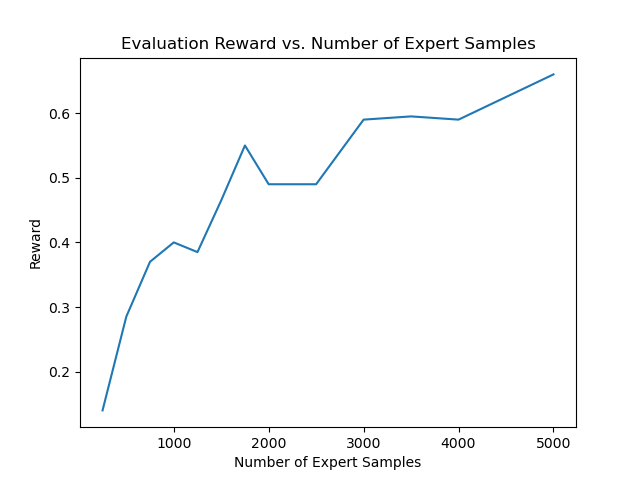
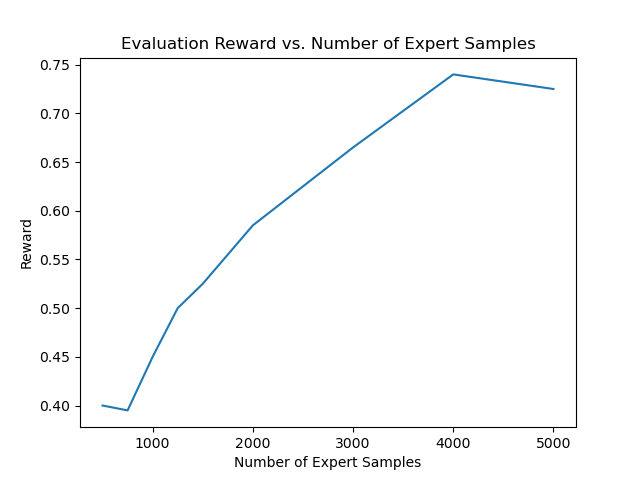
Added AL for full maze randomization

diff --git a/algos/active_bc.py b/algos/active_bc.py
@@ -10,7 +10,7 @@ from goal_setters import random_goal
 from mazes import *
 import os
 import yaml
-from helpers import Net
+from helpers import Net, ConvNet
 from maze_env import Trajectory
 
 
@@ -51,10 +51,175 @@ def heuristic(m1, m2):
 
 
 def active_bc(env=None, budget=100, config=None):
+    r = config["base"]["randomize"]
+
+    if r == "g":
+        goal_randomized_bc_al(env, budget, config)
+    elif r == "m":
+        maze_randomized_bc_al(env, budget, config)
+    else:
+        return
+
+
+def maze_randomized_bc_al(env, budget, config):
     mazes = []
+    max_heuristics = []
+    trajectories = []
+
+    B = 100
+
+    r = config["base"]["randomize"]
+
+    for i in range(B):
+        mazes.append(np.copy(generate_maze(env.board_size)))
+        trajectories.append(
+            generateExpertTrajectory(env, r=config["base"]["randomize"], maze=mazes[i])
+        )
+
+    # Generate the initial dataset
+    state_action_tuples = [traj.transitions() for traj in trajectories]
+
+    states = []
+    actions = []
+
+    for traj in state_action_tuples:
+        for state, action, _ in traj:
+            states.append(state)
+            actions.append(action)
+
+    np_states = np.array(states)
+    np_actions = np.array(actions)
+
+    idx, net, failed_configs = BehaviorCloning(
+        train_dataset=(np_states, np_actions),
+        test_dataset=None,
+        env=env,
+        config=config,
+        net=None,
+        idx=0,
+    )
+
+    while len(trajectories) <= budget:
+        print(f"Training on {len(trajectories)} expert samples")
+
+        if len(failed_configs) != 0:
+            heuristics = np.zeros(len(failed_configs))
+            max_heuristic = 0
+            max_heuristic_idx = 0
+            for t in range(len(failed_configs)):
+                cur_maze_heuristics = np.zeros(len(mazes))
+                maze_count = 0
+                for maze in mazes:
+                    cur_maze_heuristics[maze_count] = heuristic(maze, failed_configs[t])
+                    maze_count += 1
+                min_heuristic = np.min(cur_maze_heuristics)
+
+                heuristics[t] = min_heuristic
+
+            max_heuristic = np.max(heuristics)
+
+            print(f"Max heuristic: {max_heuristic}")
+            max_heuristics.append(max_heuristic)
+
+            num_left = min(B, budget - len(trajectories))
+
+            num_avail = len(failed_configs)
+
+            if num_avail >= num_left:
+                # Find the num_left best heuristics
+                best_heuristics = np.argsort(heuristics)[-num_left:]
+                # Append the corresponding configs to mazes
+                for h in best_heuristics:
+                    mazes.append(np.copy(failed_configs[h]))
+                    trajectories.append(
+                        generateExpertTrajectory(
+                            env, r=config["base"]["randomize"], maze=failed_configs[h]
+                        )
+                    )
+                    for state, action, _ in trajectories[-1].transitions():
+                        states.append(state)
+                        actions.append(action)
+            else:
+                # Append all of the configs to mazes
+                for h in range(num_avail):
+                    mazes.append(np.copy(failed_configs[h]))
+                    trajectories.append(
+                        generateExpertTrajectory(
+                            env, r=config["base"]["randomize"], maze=failed_configs[h]
+                        )
+                    )
+                    for state, action, _ in trajectories[-1].transitions():
+                        states.append(state)
+                        actions.append(action)
+                # Append random mazes to mazes
+                for h in range(num_left - num_avail):
+                    mazes.append(np.copy(generate_maze(env.board_size)))
+                    trajectories.append(
+                        generateExpertTrajectory(
+                            env, r=config["base"]["randomize"], maze=mazes[-1]
+                        )
+                    )
+                    for state, action, _ in trajectories[-1].transitions():
+                        states.append(state)
+                        actions.append(action)
+        else:
+            # Append random mazes to mazes
+            num_left = min(B, budget - len(trajectories))
+            for h in range(num_left):
+                mazes.append(np.copy(generate_maze(env.board_size)))
+                trajectories.append(
+                    generateExpertTrajectory(
+                        env, r=config["base"]["randomize"], maze=mazes[-1]
+                    )
+                )
+                for state, action, _ in trajectories[-1].transitions():
+                    states.append(state)
+                    actions.append(action)
+
+        np_states = np.array(states)
+        np_actions = np.array(actions)
+
+        idx, net, failed_configs = BehaviorCloning(
+            train_dataset=(np_states, np_actions),
+            test_dataset=None,
+            env=env,
+            config=config,
+            net=None,
+            idx=(idx + 1),
+        )
+
+    # Save the final model
+
+    # If logs/bc_al/al_model_{budget} doesn't exist, create it
+    if not os.path.exists(
+        f"logs/{config['base']['save_dir']}/bc_al_model_samples_{budget}"
+    ):
+        os.makedirs(f"logs/{config['base']['save_dir']}/bc_al_model_samples_{budget}")
+
+    torch.save(
+        net.state_dict(),
+        f"logs/{config['base']['save_dir']}/bc_al_model_samples_{budget}/bc_al_model_samples_{budget}.pt",
+    )
+
+    # Plot the max heuristics
+    plt.plot(max_heuristics)
+    plt.xlabel("Iteration")
+    plt.ylabel("Max Heuristic")
+    plt.title("Max Heuristic vs. Iteration")
+    plt.savefig(
+        f"logs/{config['base']['save_dir']}/bc_al_model_samples_{budget}/max_heuristics.png"
+    )
+
+
+def goal_randomized_bc_al(env, budget, config):
+    mazes = []
+
+    r = config["base"]["randomize"]
 
     env.set_goal(random_goal(env))
     init_maze = np.copy(env.grid_string.T)
+
+    max_heuristics = []
 
     mazes.append(init_maze)
 
@@ -156,6 +321,7 @@ def BehaviorCloning(
     env=None,
     config=yaml.load(open("configs/bc/bc_exp_cfg.yaml", "r"), Loader=yaml.FullLoader),
     net=None,
+    budget=None,
     idx=0,
 ):
     r = config["base"]["randomize"]
@@ -165,13 +331,26 @@ def BehaviorCloning(
     save_weights = config["bc"]["save_weights"]
     eval_freq = config["bc"]["eval_freq"]
     num_eval_runs = config["bc"]["num_eval_runs"]
+    network = config["base"]["network"]
 
     state_size = train_dataset[0][0].shape[0]
 
+    if torch.cuda.is_available():
+        device = torch.device("cuda:0")
+        print("Running on GPU")
+    else:
+        device = torch.device("cpu")
+        print("Running on CPU")
+
     eps = 1e-8
 
-    if net is None:
-        net = Net(state_size)
+    if network == "fc":
+        if net is None:
+            net = Net(state_size)
+    elif network == "cnn":
+        if net is None:
+            net = ConvNet(config["base"]["size"])
+            net.to(device)
 
     # Turn the train dataset from an Nx|S|x4 array into a torch dataset
     train_dataset = torch.utils.data.TensorDataset(
@@ -205,11 +384,6 @@ def BehaviorCloning(
         train_dataset, batch_size=batch_size, shuffle=True
     )
 
-    if test_dataset is not None:
-        test_loader = torch.utils.data.DataLoader(
-            test_dataset, batch_size=batch_size, shuffle=True
-        )
-
     # Train the network
 
     mod = eval_freq if eval_freq is not None else epochs // 10
@@ -222,6 +396,10 @@ def BehaviorCloning(
         epoch_train_losses = []
         epoch_train_accs = []
         for i, (state, action) in enumerate(train_loader):
+            if torch.cuda.is_available():
+                state = state.to(device)
+                action = action.to(device)
+
             optimizer.zero_grad()
             output = net(state)
 
@@ -254,8 +432,6 @@ def BehaviorCloning(
             print("Loss is 0, stopping training")
             break
 
-    save_string = f"bc_{env.grid_string.shape[0]}x{env.grid_string.shape[0]}_r_{r}_samples_{train_dataset.__len__()}_batch_{batch_size}_epochs_{epochs}"
-
     failed_configs = []
 
     obs = env.reset()
@@ -267,15 +443,18 @@ def BehaviorCloning(
         goal_idx = 1
         env.set_goal(goals[0])
         obs = env.reset()
+        num_trials = len(goals) - 1
     elif r == "m":
         obs = env.reset(grid_string=generate_maze(env.board_size))
+        num_trials = 100 * 5
     else:
         obs = env.reset()
 
-    for i in range(len(goals) - 1):
+    for i in range(num_trials):
         reward_sum = 0
         while True:
-            action = net(torch.tensor(obs).float()).argmax().item()
+            obs_tensor = torch.tensor(obs).float().to(device).unsqueeze(0)
+            action = net(obs_tensor).argmax().item()
             obs, reward, term, trunc, info = env.step(int(action))
             env.render()
             if term or trunc:
@@ -298,23 +477,28 @@ def BehaviorCloning(
 def generateExpertTrajectory(env, r="", maze=None):
     if maze is not None:
         obs = env.reset(grid_string=maze)
+        obs_s = env.get_state_obs()
     elif r == "g":
         env.set_goal(random_goal(env))
         obs = env.reset()
+        obs_s = env.get_state_obs()
     elif r == "m":
         obs = env.reset(grid_string=generate_maze(env.board_size))
+        obs_s = env.get_state_obs()
     else:
         obs = env.reset()
+        obs_s = env.get_state_obs()
 
     policy = solve_maze(env.grid_string)
 
     cur_trajectory = Trajectory()
     while True:
-        action = policy[obs[0], obs[1]]
+        action = policy[obs_s[0], obs_s[1]]
 
         obs_old = obs
 
         obs, reward, term, trunc, info = env.step(action)
+        obs_s = env.get_state_obs()
 
         cur_trajectory.add_transition(list(obs_old), action, obs)
 

diff --git a/compare.py b/compare.py
@@ -4,8 +4,8 @@ import matplotlib.pyplot as plt
 import numpy as np
 
 
-bc_name = "logs/eval/bc/bc_eval_diff_seed.csv"
-bc_al_name = "logs/eval/bc/bc_al_eval_diff_seed.csv"
+bc_name = "logs/eval/bc/bc_cnn_eval.csv"
+bc_al_name = "logs/eval/bc/bc_cnn_al_eval.csv"
 
 # Read the csv as a numpy array
 df_bc = np.genfromtxt(bc_name, delimiter=",")
@@ -40,5 +40,5 @@ plt.legend()
 plt.title("Evaluation Reward vs. Number of Expert Samples")
 plt.xlabel("Number of Expert Samples")
 plt.ylabel("Reward")
-plt.savefig(f"{log_dir}/reward_fixed_diff_seed.png")
+plt.savefig(f"{log_dir}/reward_cnn_al.png")
 plt.show()
